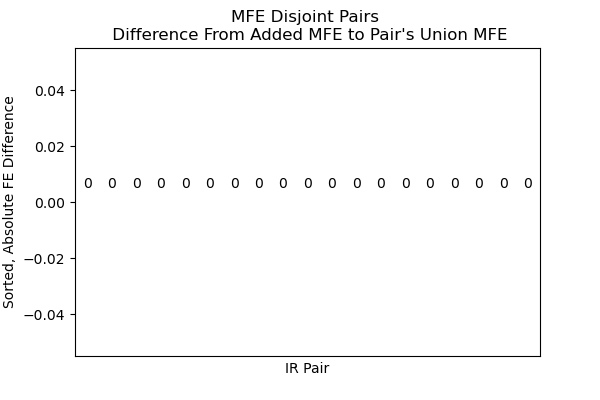
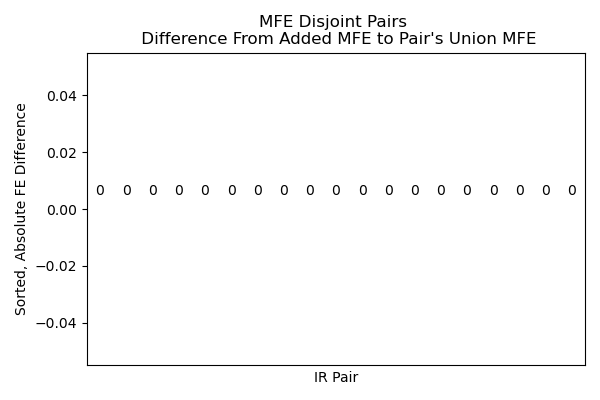
Added analysis highlighting free energy values of IR pairs which form valid and invalid loops

Changed region(s): [[0.0, 0.03, 0.93, 0.9], [0.51, 0.45, 0.96, 0.51], [0.45, 0.9, 0.6, 0.96]]

diff --git a/scripts/experiment_1_results_analysis.py b/scripts/experiment_1_results_analysis.py
@@ -32,13 +32,32 @@ def plot_pair_analysis(pairs_df, pair_type):
             ],
             padding=8,
         )
-    plt.savefig(f"{DATA_DIR}/experiment_1/experiment_1_{pair_type}.png")
     plt.tight_layout()
+    plt.savefig(f"{DATA_DIR}/experiment_1/experiment_1_{pair_type}.png")
     plt.show()
 
 
 if __name__ == "__main__":
     results_df = pd.read_csv(f"{DATA_DIR}/experiment_1/experiment_1_results.csv")
+
+    # Show free energy value of pairs, highlight pairs that form valid loops and those that don't
+    form_valid_loop_highlighted_df = results_df.assign(
+        colour=['green' if val else 'red' for val in results_df.ir_pair_forms_valid_loop])
+    form_valid_loop_highlighted_df.ir_pair_fe_union = form_valid_loop_highlighted_df.ir_pair_fe_union.apply(
+        lambda x: x if x < 50_000 else 100)
+    bar_plot_ax = form_valid_loop_highlighted_df.plot.bar(
+        x="ir_pair_index",
+        y="ir_pair_fe_union",
+        color=form_valid_loop_highlighted_df.colour,
+        title=f"Free Energy Values of IR Pairs",
+        xticks=[],
+        xlabel="IR Pair",
+        ylabel="Pair Union Free Energy",
+        legend=False,  # ToDo: Add legend
+    )
+    plt.tight_layout()
+    plt.savefig(f"{DATA_DIR}/experiment_1/experiment_1_valid_loop_formed.png")
+    plt.show()
 
     # Show how the additivity assumption holds for pairs that form different structures e.g. wholly nested, disjoint...
     pairs_dfs = [
@@ -49,3 +68,4 @@ if __name__ == "__main__":
     pair_type_names = ["Disjoint", "Wholly Nested", "Partially Nested"]
     for pairs_df, pair_name in zip(pairs_dfs, pair_type_names):
         plot_pair_analysis(pairs_df, pair_name)
+
